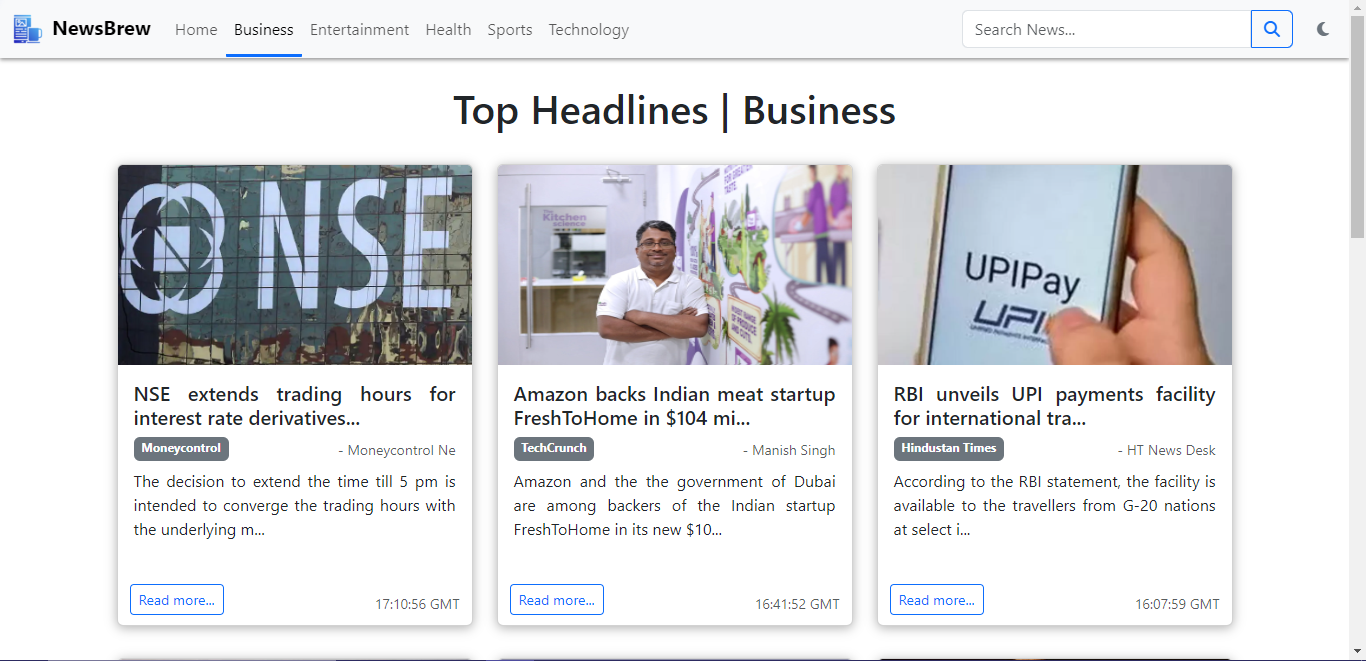
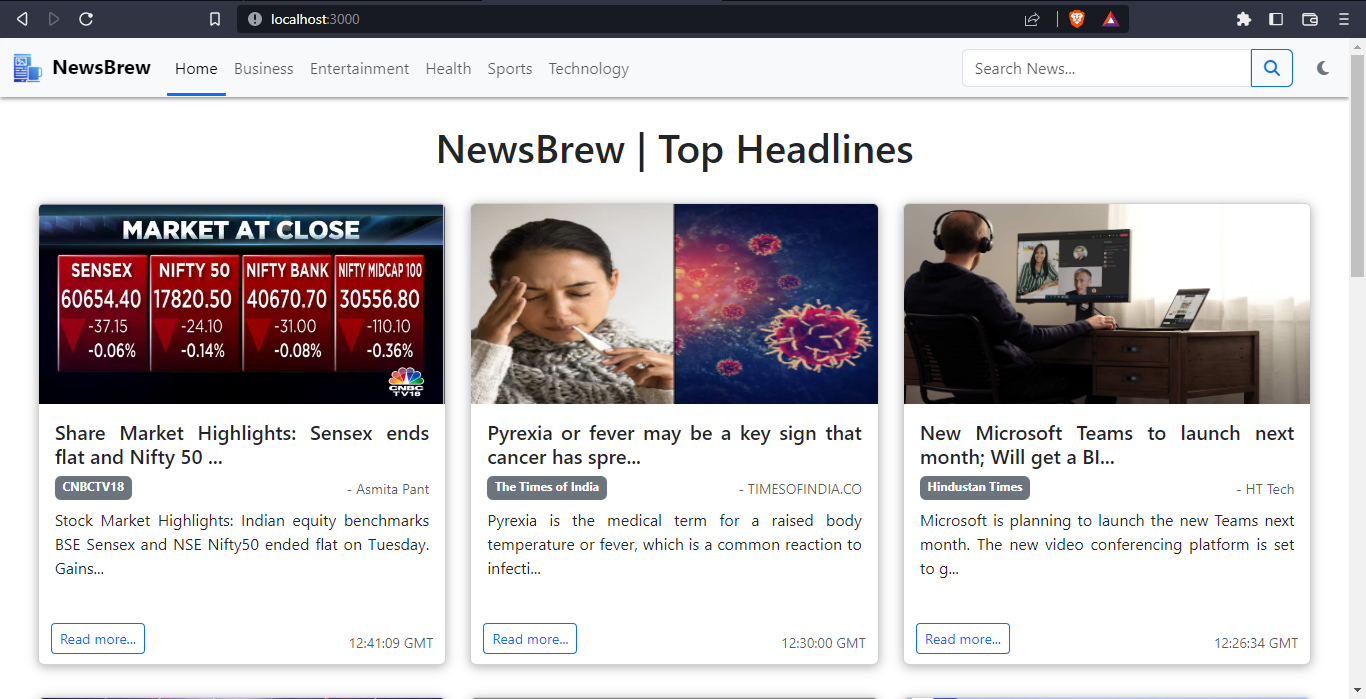
Light/Dark Mode & Readme Update

diff --git a/src/App.js b/src/App.js
@@ -4,21 +4,37 @@ import Navbar from "./components/Navbar";
 import LoadingBar from "react-top-loading-bar";
 import News from "./components/News";
 import Footer from "./components/Footer";
-import { BrowserRouter as Router, Routes, Route} from "react-router-dom";
+import { BrowserRouter as Router, Routes, Route } from "react-router-dom";
 
 const App = () => {
   const apiKey = process.env.REACT_APP_NEWS_API;
   const [progress, setProgress] = useState(0);
-  const [query, setQuery] = useState('query');
+  const [mode, setMode] = useState("light");
+  const [query, setQuery] = useState("query");
+
+  const toggleMode = () => {
+    if (mode === "dark") {
+      setMode("light");
+      document.body.style.backgroundColor = "white";
+    } else {
+      setMode("dark");
+      document.body.style.backgroundColor = "#3D3D3D";
+    }
+  };
 
   const chooseKey = (key) => {
-    setQuery(key)
+    setQuery(key);
   };
-  
+
   return (
     <div>
       <Router>
-        <Navbar title="NewsBrew" chooseKey={chooseKey} />
+        <Navbar
+          title="NewsBrew"
+          chooseKey={chooseKey}
+          mode={mode}
+          toggleMode={toggleMode}
+        />
         <LoadingBar height={3} color="#1D2BD1" progress={progress} />
         <Routes>
           <Route
@@ -26,7 +42,8 @@ const App = () => {
             path="/"
             element={
               <News
-                search={false} 
+                mode={mode}
+                search={false}
                 setProgress={setProgress}
                 apiKey={apiKey}
                 key="general"
@@ -41,7 +58,8 @@ const App = () => {
             path="/business"
             element={
               <News
-                search={false} 
+                mode={mode}
+                search={false}
                 setProgress={setProgress}
                 apiKey={apiKey}
                 key="business"
@@ -56,7 +74,8 @@ const App = () => {
             path="/entertainment"
             element={
               <News
-                search={false} 
+                mode={mode}
+                search={false}
                 setProgress={setProgress}
                 apiKey={apiKey}
                 key="entertainment"
@@ -71,7 +90,8 @@ const App = () => {
             path="/health"
             element={
               <News
-                search={false} 
+                mode={mode}
+                search={false}
                 setProgress={setProgress}
                 apiKey={apiKey}
                 key="health"
@@ -86,7 +106,8 @@ const App = () => {
             path="/sports"
             element={
               <News
-                search={false} 
+                mode={mode}
+                search={false}
                 setProgress={setProgress}
                 apiKey={apiKey}
                 key="sports"
@@ -101,7 +122,8 @@ const App = () => {
             path="/technology"
             element={
               <News
-                search={false} 
+                mode={mode}
+                search={false}
                 setProgress={setProgress}
                 apiKey={apiKey}
                 key="technology"
@@ -111,12 +133,13 @@ const App = () => {
               />
             }
           />
-         
+
           <Route
             exact
             path="/search/:query"
             element={
               <News
+                mode={mode}
                 search={true}
                 setProgress={setProgress}
                 apiKey={apiKey}

diff --git a/src/components/Navbar.js b/src/components/Navbar.js
@@ -9,6 +9,10 @@ const Navbar = (props) => {
     if (queryRef.current.value) {
       navigate(`/search/${queryRef.current.value}`);
       props.chooseKey(queryRef.current.value);
+      document.querySelectorAll(".nav-link").forEach((element) => {
+        element.classList.remove("active");
+      });
+      document.getElementById("homeLink").classList.add("active");
     }
   };
 
@@ -22,8 +26,13 @@ const Navbar = (props) => {
   return (
     <div>
       <nav
-        className="navbar navbar-expand-lg fixed-top bg-body-tertiary"
-        style={{ boxShadow: "0 2px 4px 0 rgba(0,0,0,.4)" }}
+        className={`navbar navbar-expand-lg fixed-top navbar-${props.mode} bg-${props.mode}`}
+        style={{
+          boxShadow:
+            props.mode === "dark"
+              ? "0 2px 4px 0 rgba(255,255,255,.4)"
+              : "0 2px 4px 0 rgba(0,0,0,.4)",
+        }}
       >
         <div className="container-fluid">
           <Link className="navbar-brand" to="/">
@@ -35,8 +44,17 @@ const Navbar = (props) => {
             <strong>{props.title}</strong>
           </Link>
 
-          <div id='modeBtn' className={`text-secondary float-end ms-auto p-0 order-sm-1 order-lg-2 ms-lg-3`}>
-            <i className="fa-solid fa-moon p-2"></i>
+          <div
+            id="modeBtn"
+            onClick={props.toggleMode}
+            className={`text-secondary float-end ms-auto p-0 order-sm-1 order-lg-2 ms-lg-3`}
+            style={{ pointerEvents: "painted" }}
+          >
+            <i
+              className={`fa-solid ${
+                props.mode === "light" ? "fa-moon" : "fa-sun text-light"
+              } p-2`}
+            ></i>
           </div>
 
           <div
@@ -45,14 +63,21 @@ const Navbar = (props) => {
             role="search"
           >
             <input
-              className="form-control me-2"
+              className={`form-control me-2`}
+              style={{
+                backgroundColor: `${props.mode === "light" ? "" : "#C0C1CB"}`,
+              }}
               type="search"
               placeholder="Search News..."
               aria-label="Search"
               ref={queryRef}
             />
             <button
-              className="btn btn-outline-primary"
+              className={`btn ${
+                props.mode === "light"
+                  ? "btn-outline-primary"
+                  : "btn-outline-light"
+              }`}
               type="submit"
               onClick={handleSearchClick}
             >
@@ -74,6 +99,7 @@ const Navbar = (props) => {
             <ul className="navbar-nav me-auto mb-2 mb-lg-0">
               <li className="nav-item position-relative">
                 <Link
+                  id="homeLink"
                   className="nav-link active"
                   aria-current="page"
                   onClick={handleNavItemClick}

diff --git a/src/components/News.js b/src/components/News.js
@@ -8,6 +8,7 @@ import { useParams } from "react-router-dom";
 
 const News = (props) => {
   const [articles, setArticles] = useState([]);
+  // eslint-disable-next-line
   const [loading, setLoading] = useState(true);
   const [page, setPage] = useState(1);
   const [totalResults, setTotalResults] = useState(0);
@@ -63,7 +64,12 @@ const News = (props) => {
 
   return (
     <div style={{ minHeight: "500px" }}>
-      <h1 className="text-center mb-3" style={{ marginTop: "85px" }}>
+      <h1
+        id='newsTitle'
+        className={`${
+          props.mode === "light" ? "text-dark" : "text-light"
+        } text-center mb-3`}
+      >
         {props.search
           ? `${query} | ${totalResults} Results`
           : props.category === "general"
@@ -76,7 +82,7 @@ const News = (props) => {
         hasMore={articles.length !== totalResults}
         loader={<Spinner />}
       >
-        <div className="container">
+        <div className="container" id="newsContainer">
           <div className="row">
             {articles.map((element) => {
               let {
@@ -89,7 +95,7 @@ const News = (props) => {
                 publishedAt,
               } = element;
               return (
-                <div className="col-md-4" key={element.url}>
+                <div className={`col-sm-6 col-md-4`} key={element.url}>
                   <NewsItem
                     title={
                       title
@@ -114,6 +120,7 @@ const News = (props) => {
                     author={author}
                     date={publishedAt}
                     source={source}
+                    mode={props.mode}
                   />
                 </div>
               );

diff --git a/src/components/NewsItem.js b/src/components/NewsItem.js
@@ -4,9 +4,17 @@ const NewsItem = (props) => {
   let { title, description, imageUrl, newsUrl, author, date, source } = props;
   return (
     <div className="my-3">
-      <div className="card overflow-hidden" style={{boxShadow: '0 0.125rem 0.675rem rgb(0 0 0 / 30%)'}}>
+      <div
+        className={`card overflow-hidden`}
+        style={{
+          boxShadow: "0 0.125rem 0.675rem rgb(0 0 0 / 30%)",
+          backgroundColor: `${
+            props.mode === "light" ? "" : "#C0C1CB"
+          }`,
+        }}
+      >
         <img src={imageUrl} className="card-img-top" alt="Failed to load" />
-        <div className="card-body" style={{height : '260px'}}>
+        <div className="card-body" style={{ height: "260px" }}>
           <h5 className="card-title" style={{ textAlign: "justify" }}>
             {title}
           </h5>
@@ -39,7 +47,6 @@ const NewsItem = (props) => {
               rel="noreferrer"
               className="btn btn-sm btn-outline-primary position-absolute"
               style={{ bottom: "10px", left: "12px" }}
-
             >
               Read more...
             </a>

diff --git a/src/App.css b/src/App.css
@@ -48,22 +48,40 @@
   }
 }
 
-.card img{
-    height: 200px;
-    aspect-ratio: 1 / 1;
+.card img {
+  height: 200px;
+  aspect-ratio: 1 / 1;
 }
 
-.card img:hover{
-    scale: 1.1;
-    transition: ease-in-out .3s;
+.card img:hover {
+  scale: 1.1;
+  transition: ease-in-out 0.3s;
 }
 
-footer{
-    height: 100px;
-    border-top-right-radius: 12px;
-    border-top-left-radius: 12px;
+footer {
+  height: 100px;
+  border-top-right-radius: 12px;
+  border-top-left-radius: 12px;
 }
 
-#modeBtn{
+#modeBtn {
   border-radius: 50px;
+}
+
+@media only screen and (min-width: 360px) {
+  #newsTitle {
+    margin-top: 115px;
+  }
+  #newsContainer {
+    max-width: 95vw;
+  }
+}
+
+@media only screen and (min-width: 576px) {
+  #newsTitle {
+    margin-top: 85px;
+  }
+  #newsContainer {
+    max-width: 95vw;
+  }
 }

diff --git a/README.md b/README.md
@@ -8,13 +8,14 @@ NewsBrew is a ReactJS based Single Page Web Application which fetches new from N
 
 <table>
     <tr>
-        <td><img src="Images/SS/1.png"></td>
+        <td colspan='2'><img src="Images/SS/1.png"></td>
     </tr>
      <tr>
-        <td><img src="Images/SS/2.png"></td>
+        <td colspan='2'><img src="Images/SS/2.png"></td>
     </tr>
      <tr>
         <td><img src="Images/SS/3.png"></td>
+        <td><img src="Images/SS/4.png"></td>
     </tr>
 </table>
 
